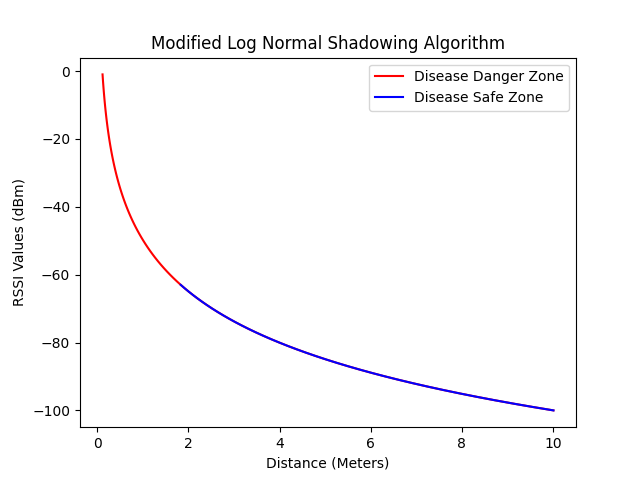
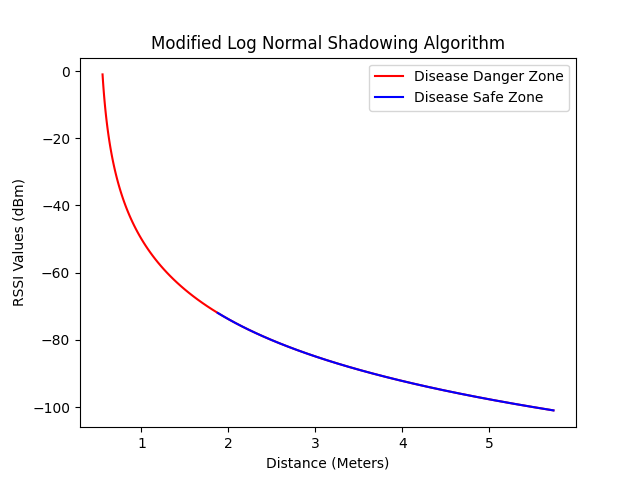
fixed graphs

diff --git a/Algorithm.py b/Algorithm.py
@@ -8,24 +8,24 @@ ENVIRONMENT_CONSTANT = 1
 # Average RSSI value at d0
 A0 = -50
 # Device Constant for Normalization
-DEVICE_CONSTANT = 1 / 100
+DEVICE_CONSTANT = 0.5
 
 
 # Modified Log Normal Shadowing Model
 def getDistance(rssi):
     try:
         x = float((rssi - A0) / (-10 * PATH_LOSS))
-        distance = (math.pow(10, x) * 100) + ENVIRONMENT_CONSTANT
+        distance = (math.pow(10, x)) + ENVIRONMENT_CONSTANT
         return distance * DEVICE_CONSTANT
     except ZeroDivisionError:
         print("Path Loss cannot be Zero")
 
 
 def createGraph():
-    distanceVals = [getDistance(x) for x in range(-100, 0)]
-    rssiVals = [x for x in range(-100, 0)]
+    distanceVals = [getDistance(x) for x in range(-101, 0)]
+    rssiVals = [x for x in range(-101, 0)]
     plt.plot(distanceVals, rssiVals, color="red", label="Disease Danger Zone")
-    plt.plot(distanceVals[:38], rssiVals[:38], color="blue", label="Disease Safe Zone")
+    plt.plot(distanceVals[:30], rssiVals[:30], color="blue", label="Disease Safe Zone")
     plt.title("Modified Log Normal Shadowing Algorithm")
     plt.xlabel('Distance (Meters)')
     plt.ylabel('RSSI Values (dBm)')
